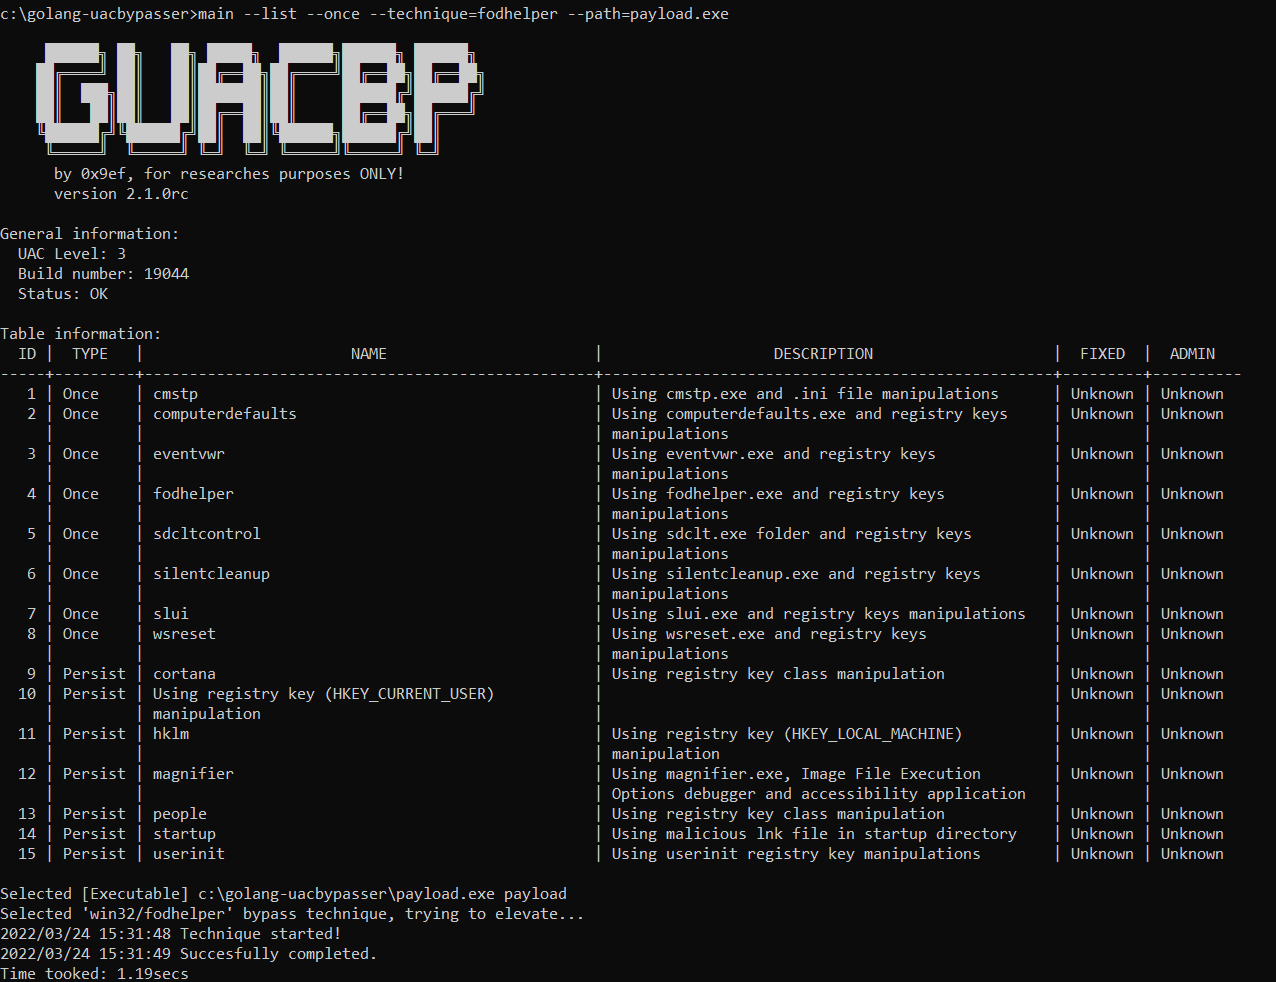
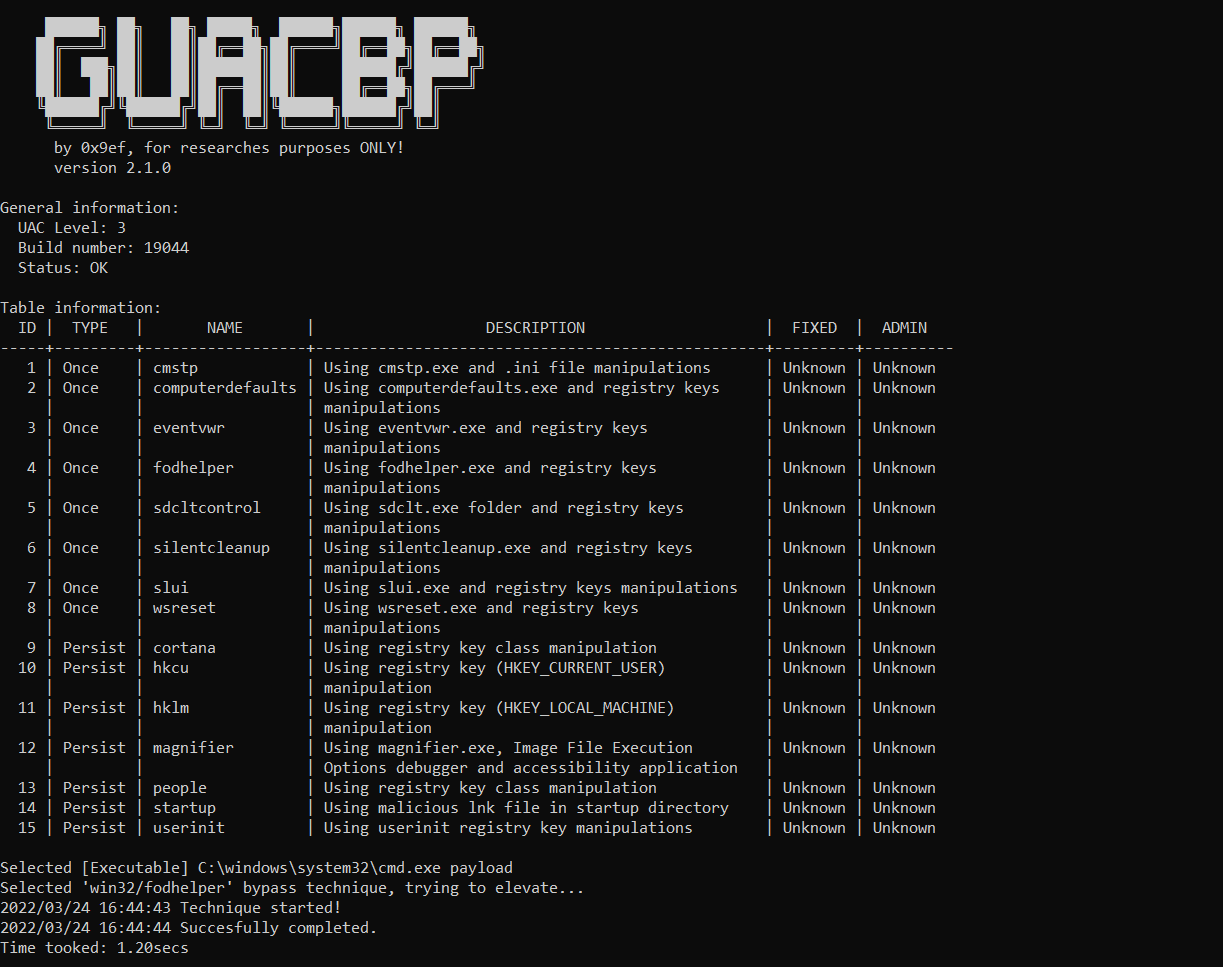
Fixed typo

diff --git a/pkg/types.go b/pkg/types.go
@@ -118,8 +118,8 @@ var InfoPersistCortana = Info{
 var InfoPersistHkcu = Info{
 	Id:          10,
 	Type:        "persist",
-	Name:        "Using registry key (HKEY_CURRENT_USER) manipulation",
-	Description: "",
+	Name:        "hkcu",
+	Description: "Using registry key (HKEY_CURRENT_USER) manipulation",
 	// Fixed: true
 	// FixedIn: <nil>
 	// Admin: false
